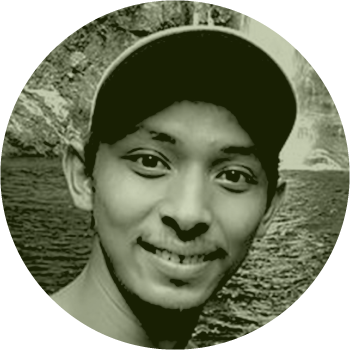
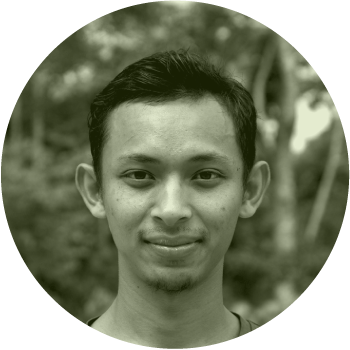
about us perak content

diff --git a/about.html b/about.html
@@ -1276,19 +1276,22 @@
                                         <img src="./img/PR1.png" alt="" id="img-stf">
                                         <br>
                                         <br>
-                                        <p id="sname">M. Amirul Hafis bin
-                                            Muhammad Nadzri</p>
+                                        <p id="sname">Mohd Rahimi Bin Md
+                                            Rodzi</p>
                                         <br>
                                         <p id="spos">G-Team, Perak</p>
                                         <br>
-                                        <p id="sdesc">Amirul attended a forest seedling course in
-                                            Tanjung Malim under the Tunas Harapan
-                                            project. Due to outstanding results in the
-                                            exams, TRCRC took him under their wings.
-                                            Amirul took on the challenge and now
-                                            works as one of the excellent Ground Team
-                                            staff in TRLC-Banun. He aspires to become
-                                            one of the best in his field.</p>
+                                        <p id="sdesc">Through his circle of friends in Gerik,
+                                            Rahimi found out about the G-Team
+                                            programme by word of mouth. He got
+                                            curious about the programme and how it
+                                            enables youths like him to participate in
+                                            forest rehabilitation and restoration.
+                                            Hailing from FELDA Lawin Selatan, he has
+                                            experienced the effects of forest
+                                            degradation firsthand and vows to find
+                                            balance between development and
+                                            sustainable forest management.</p>
                                         <p id="contr" style="text-align:right">
                                             <img src="./img/trlc-sm.png">
                                         </p>
@@ -1326,22 +1329,19 @@
                                         <img src="./img/PR3.png" alt="" id="img-stf">
                                         <br>
                                         <br>
-                                        <p id="sname">M. Fahmi bin Ahmad
-                                            Latfi</p>
+                                        <p id="sname">Mohd Safarizal Sazwan
+                                            Bin Mohd Sukor</p>
                                         <br>
                                         <p id="spos">G-Team, Perak</p>
                                         <br>
-                                        <p id="sdesc">Fahmi is always looking forward to gaining
-                                            new knowledge. He started his training in
-                                            gardening and tree maintenance in Kepala
-                                            Batas. Afterwards, he followed the
-                                            programme by Landskap Malaysia on
-                                            forest seedlings. He continued doing
-                                            landscaping work at schools and
-                                            universities and was eventually selected as
-                                            Assistant Data Management for
-                                            TRLC-Banun after TRCRC saw his potential
-                                            in managing data.</p>
+                                        <p id="sdesc">The eldest brother of the Mohd Shukor
+                                            family, Safarizal eventually enrolled
+                                            himself in the G-Team programme after
+                                            hearing success stories from his younger
+                                            siblings. Safarizal has always had an
+                                            entrepreneurial mindset and was working
+                                            independently back in his kampung at
+                                            Bersia Lama, Gerik.</p>
                                         <p id="contr" style="text-align:right">
                                             <img src="./img/trlc-sm.png">
                                         </p>
